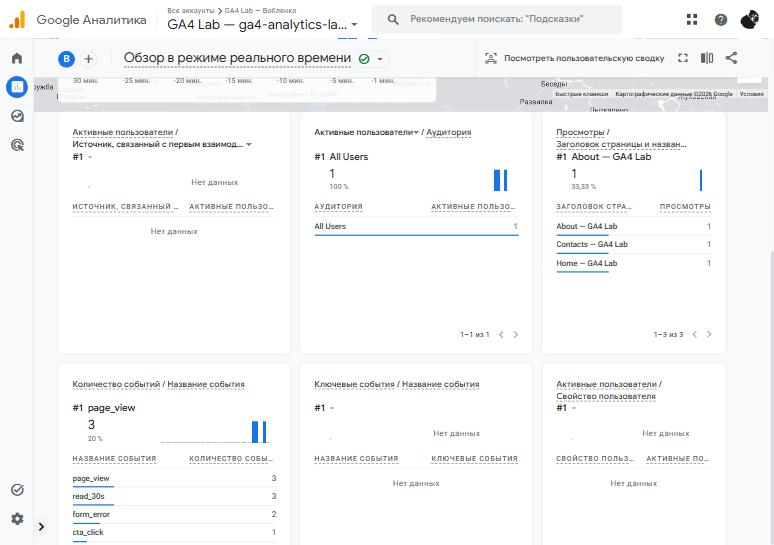
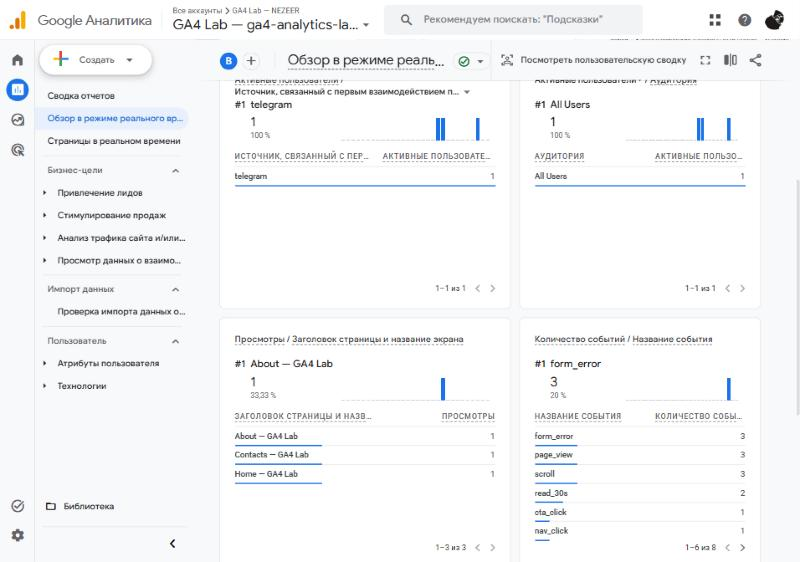
hw-02..hw-05: ФИО, новые скриншоты GA4 с аккаунтом NEZEER, источник и отчёты для ДЗ 3

diff --git a/lesson_03/homework_03.md b/lesson_03/homework_03.md
@@ -5,7 +5,7 @@
 | Поле | Значение |
 |---|---|
 | Фамилия, имя, отчество | Исмаилов Алишах Иса оглы |
-| Группа | 11/1-РПО-26/1 |
+| Группа |  |
 | Номер работы | 3 |
 | Тема работы | Установка Google Tag, источник перехода и отчёты GA4 |
 | Дата сдачи |  |
@@ -19,7 +19,7 @@
 | Адрес репозитория сайта | https://github.com/OXIGAME1/ga4-analytics-lab-ism |
 | Публичный адрес сайта | https://ga4-analytics-lab-ism.vercel.app |
 | Статус публикации | READY |
-| Analytics Account | GA4 Lab — NEZEER (до 06.11.2026 — «GA4 Lab — Вобленко», это имя видно на ранних скриншотах) |
+| Analytics Account | GA4 Lab — NEZEER |
 | Property | GA4 Lab — ga4-analytics-lab-ism |
 | Stream name | GA4 Lab — Vercel |
 | Website URL в потоке | https://ga4-analytics-lab-ism.vercel.app |
@@ -45,9 +45,9 @@
 
 | Поле | Значение |
 |---|---|
-| Дата и время проверки | 05.11.2026, около 22:50 (МСК) |
+| Дата и время проверки | 06.11.2026, 14:05–14:15 (МСК) |
 | Какие страницы открывали | Home, About, Contacts |
-| Какие события появились в Realtime | `page_view` (3), `read_30s` (3), `form_error` (2), `cta_click`, `first_visit`, `generate_lead` |
+| Какие события появились в Realtime | `page_view` (3), `form_error` (3), `scroll` (3), `read_30s` (2), `cta_click`, `nav_click` |
 | Число активных пользователей в момент проверки | 1 |
 
 ![Realtime с событием page_view](screens/03-realtime.png)
@@ -65,11 +65,11 @@ https://ga4-analytics-lab-ism.vercel.app/?utm_source=telegram&utm_medium=social&
 
 | Поле | Значение |
 |---|---|
-| Где в GA4 виден источник |  |
-| Какое значение источника показал GA4 |  |
-| Совпадает с `utm_source` из ссылки | да / нет |
+| Где в GA4 виден источник | Отчёты → Привлечение лидов → Привлечение трафика, параметр «Источник/канал сеанса» |
+| Какое значение источника показал GA4 | `telegram / social` (1 сеанс), рядом `(direct) / (none)` (2 сеанса) |
+| Совпадает с `utm_source` из ссылки | да |
 
-Скриншот: вставьте строку `![Источник перехода в GA4](screens/04-source.png)`
+![Источник перехода в GA4](screens/04-source.png)
 
 Источник и кампания из UTM в отчёте Realtime не показываются: эти измерения
 вычисляются при обработке данных. Если в Realtime источника нет, смотрите
@@ -79,16 +79,19 @@ https://ga4-analytics-lab-ism.vercel.app/?utm_source=telegram&utm_medium=social&
 
 | Показатель | Значение | Период |
 |---|---|---|
-| Пользователи |  |  |
-| Сеансы |  |  |
-| События |  |  |
-| Самое частое событие |  |  |
+| Пользователи | 3 | 9 окт. – 5 нояб. 2026 (последние 28 дней) |
+| Сеансы | 3 | 9 окт. – 5 нояб. 2026 |
+| События | 36 | 9 окт. – 5 нояб. 2026 |
+| Самое частое событие | `page_view` — 8 | 9 окт. – 5 нояб. 2026 |
 
-Скриншот: вставьте строку `![Страница «Отчёты» со статистикой](screens/05-reports.png)`
+![Страница «Отчёты» со статистикой](screens/05-reports.png)
 
 **Что видно по этим числам** (2–3 предложения):
 
->
+> Данные появились только 5 ноября, когда тег был поставлен, и это мои тестовые
+> заходы: 3 пользователя и 3 сеанса. Чаще всего срабатывает `page_view`, за ним
+> `scroll`. Сеанс по ссылке с `telegram / social` единственный с взаимодействием,
+> прямые заходы были короткими.
 
 ## 6. Что не получилось
 

diff --git a/lesson_04/homework_04.md b/lesson_04/homework_04.md
@@ -5,7 +5,7 @@
 | Поле | Значение |
 |---|---|
 | Фамилия, имя, отчество | Исмаилов Алишах Иса оглы |
-| Группа | 11/1-РПО-26/1 |
+| Группа |  |
 | Номер работы | 4 |
 | Тема работы | Свои события и параметры: четыре метрики на сайте |
 | Дата сдачи |  |
@@ -40,9 +40,9 @@
 
 | Поле | Значение |
 |---|---|
-| Дата и время проверки | 05.11.2026, 23:01–23:04 (МСК) |
+| Дата и время проверки | 06.11.2026, 14:05–14:13 (МСК) |
 | Как подключали отладку | `debug_mode`: в `gtag('config', …)` добавлен `debug_mode: true`, если в адресе есть `?debug_mode=1` (коммит [`5ad18f6`](https://github.com/OXIGAME1/ga4-analytics-lab-ism/commit/5ad18f6)) |
-| Какие из четырёх событий пришли | все четыре: `nav_click`, `utm_visit`, `read_30s`, `form_error` (2 — по одному на каждое пустое обязательное поле) |
+| Какие из четырёх событий пришли | все четыре: `nav_click`, `utm_visit`, `read_30s`, `form_error` (3 — по одному на каждое пустое обязательное поле: имя, email, направление) |
 | Какие не пришли и почему | — |
 
 ![Лента DebugView с новыми событиями](screens/02-debugview.png)
@@ -76,8 +76,8 @@ https://ga4-analytics-lab-ism.vercel.app/?utm_source=telegram&utm_medium=social&
 |---|---|
 | Где проверяли | Realtime |
 | Какое событие искали | `read_30s`, `form_error` |
-| Сколько срабатываний показал экран | `read_30s` — 3, `form_error` — 2 |
-| Период (для отчёта) | последние 30 минут, 05.11.2026 |
+| Сколько срабатываний показал экран | `read_30s` — 2, `form_error` — 3 |
+| Период (для отчёта) | последние 30 минут, 06.11.2026 |
 
 ![Событие в Realtime или в отчёте за период](screens/04-realtime.png)
 
@@ -87,10 +87,10 @@ https://ga4-analytics-lab-ism.vercel.app/?utm_source=telegram&utm_medium=social&
 новых событий. Например, по каким пунктам меню ходят чаще, доходит ли
 кто-то до получаса чтения, спотыкается ли форма.
 
-> Данных пока мало — это мои тестовые заходы. `read_30s` пришло на каждой из трёх
-> страниц, значит полминуты на странице проводят. `form_error` срабатывает по разу
-> на каждое незаполненное поле, поэтому по нему видно, какое поле чаще забывают.
-> Из меню переходили в «Contacts».
+> Данных пока мало — это мои тестовые заходы. `read_30s` пришло дважды, значит
+> полминуты на странице проводят. `form_error` срабатывает по разу на каждое
+> незаполненное поле, поэтому по нему видно, какое поле чаще забывают.
+> Из меню переходили в «About» и «Contacts».
 
 ## 7. Что не получилось
 

diff --git a/lesson_02/homework_02.md b/lesson_02/homework_02.md
@@ -4,8 +4,8 @@
 
 | Поле | Значение |
 |---|---|
-| Фамилия, имя, отчество | Вобленко Глеб Владимирович |
-| Группа | 11/1-РПО-26/1 |
+| Фамилия, имя, отчество | Исмаилов Алишах Иса оглы |
+| Группа |  |
 | Номер работы | 2 |
 | Тема работы | Анализ воронки цифрового продукта и структура Google Analytics 4 |
 | Дата сдачи | 05.11.2026 |
@@ -21,7 +21,7 @@
 | Компания, сервис или отрасль | Qlean — российский онлайн-сервис заказа уборки квартир и офисов |
 | Адрес сайта или приложения | https://qlean.ru/ (приложение «Qlean — уборка квартир» в App Store и RuStore) |
 | Целевое действие | оформленный и подтверждённый заказ уборки; для бизнеса важнее — повторный заказ |
-| Почему выбран этот объект | моя курсовая — сайт клининговой компании «Чистый лист», поэтому интересно разобрать, где теряет клиентов крупный сервис той же отрасли, в котором заказ тоже идёт через расчёт цены и форму с датой |
+| Почему выбран этот объект | курсовая по ТЗ-20 — сайт клининговой компании «Чистый лист», поэтому интересно разобрать, где теряет клиентов крупный сервис той же отрасли, в котором заказ тоже идёт через расчёт цены и форму с датой |
 
 ## 1.2. Воронка
 
@@ -228,7 +228,7 @@
 
 | Поле | Значение |
 |---|---|
-| Analytics Account | GA4 Lab — NEZEER (до 06.11.2026 — «GA4 Lab — Вобленко», это имя видно на ранних скриншотах) |
+| Analytics Account | GA4 Lab — NEZEER |
 | Property | GA4 Lab — ga4-analytics-lab-ism |
 | Reporting time zone | (GMT+03:00) Москва, Россия |
 | Currency | российский рубль (₽) |
@@ -244,7 +244,7 @@ Stream ID и Measurement ID — это разные идентификаторы
 
 ## 2.3. Скриншоты
 
-![Создание Analytics Account](screens/01-analytics-account.png)
+![Analytics Account: название и идентификатор](screens/01-analytics-account.png)
 
 ![Ресурс: часовой пояс и валюта](screens/02-property.png)
 

diff --git a/lesson_07/homework_07.md b/lesson_07/homework_07.md
@@ -4,8 +4,8 @@
 
 | Поле | Значение |
 |---|---|
-| Фамилия, имя, отчество | Вобленко Глеб Владимирович |
-| Группа | 11/1-РПО-26/1 |
+| Фамилия, имя, отчество | Исмаилов Алишах Иса оглы |
+| Группа |  |
 | Номер работы | 7 |
 | Тема работы | Автоворонка из Instagram: комментарий → сообщение → сайт → заявка |
 | Дата сдачи |  |

diff --git a/lesson_01/homework_01.md b/lesson_01/homework_01.md
@@ -4,8 +4,8 @@
 
 | Поле | Значение |
 |---|---|
-| Фамилия, имя, отчество | Вобленко Глеб Владимирович |
-| Группа | 11/1-РПО-26/1 |
+| Фамилия, имя, отчество | Исмаилов Алишах Иса оглы |
+| Группа |  |
 | Номер работы | 1 |
 | Тема работы | Цифровая воронка: путь данных от ссылки до заявки |
 | Дата сдачи | 05.11.2026 |

diff --git a/lesson_05/homework_05.md b/lesson_05/homework_05.md
@@ -4,8 +4,8 @@
 
 | Поле | Значение |
 |---|---|
-| Фамилия, имя, отчество | Вобленко Глеб Владимирович |
-| Группа | 11/1-РПО-26/1 |
+| Фамилия, имя, отчество | Исмаилов Алишах Иса оглы |
+| Группа |  |
 | Номер работы | 5 |
 | Тема работы | Форма сайта → Apps Script → Google Таблица заявок |
 | Дата сдачи |  |

diff --git a/lesson_06/homework_06.md b/lesson_06/homework_06.md
@@ -5,7 +5,7 @@
 | Поле | Значение |
 |---|---|
 | Фамилия, имя, отчество | Исмаилов Алишах Иса оглы |
-| Группа | 11/1-РПО-26/1 |
+| Группа |  |
 | Номер работы | 6 |
 | Тема работы | Повторяемая очистка выгрузки заявок в Google Таблицах |
 | Дата сдачи |  |
